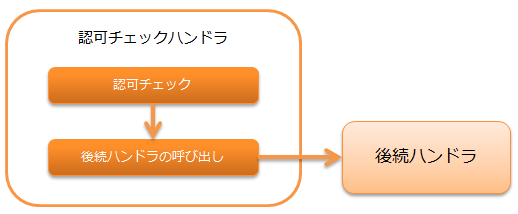
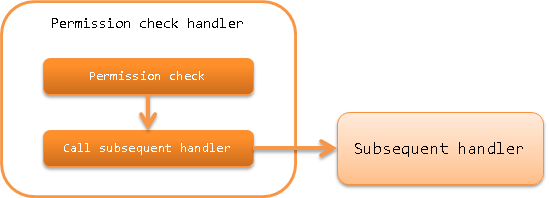
認可チェックハンドラページを英語化

Changed region(s): [[0.0, 0.0, 1.0, 1.0], [0.0927, 0.0909, 0.4633, 0.2121], [0.1544, 0.3636, 0.3707, 0.4242]]

diff --git a/en/application_framework/application_framework/handlers/common/permission_check_handler.rst b/en/application_framework/application_framework/handlers/common/permission_check_handler.rst
@@ -1,31 +1,30 @@
 .. _`permission_check_handler`:
 
-認可チェックハンドラ
+Permission Check Handler
 =======================================
 
-.. contents:: 目次
+.. contents:: Table of contents
   :depth: 3
   :local:
 
-本ハンドラでは、 :ref:`permission_check_handler-request_checking` を行う。
+This handler performs :ref:`permission_check_handler-request_checking`.
 
-認可チェックは、ライブラリの :ref:`permission_check` を使用して行う。
-そのため、本ハンドラを使用するには、
-:java:extdoc:`PermissionFactory <nablarch.common.permission.PermissionFactory>` を実装したクラスを本ハンドラに設定する必要がある。
+The permission check is performed using :ref:`permission_check` from the library.
+Therefore, to use this handler, it is necessary to configure a class that implements :java:extdoc:`PermissionFactory <nablarch.common.permission.PermissionFactory>` in this handler.
 
-本ハンドラでは、以下の処理を行う。
+This handler performs the following process.
 
-* 認可チェック
+* Permission check
 
-処理の流れは以下のとおり。
+The process flow is as follows.
 
 .. image:: ../images/PermissionCheckHandler/flow.png
 
-ハンドラクラス名
+Handler class name
 --------------------------------------------------
 * :java:extdoc:`nablarch.common.permission.PermissionCheckHandler`
 
-モジュール一覧
+Module list
 --------------------------------------------------
 .. code-block:: xml
 
@@ -34,56 +33,54 @@
     <artifactId>nablarch-common-auth</artifactId>
   </dependency>
 
-制約
+Constraints
 ------------------------------
-:ref:`thread_context_handler` より後ろに配置すること
-  本ハンドラではスレッドコンテキスト上に設定されたリクエストIDとユーザIDをもとに認可チェックを行うため、
-  :ref:`thread_context_handler` より後ろに本ハンドラを配置する必要がある。
+Place after :ref:`thread_context_handler`
+  Since this handler performs permission check based on the request ID and user ID set in the thread context,
+  this handler must be placed after :ref:`thread_context_handler`.
 
-:ref:`forwarding_handler` より後ろに配置すること
-  内部フォーワードが行われた際に、フォーワード先のリクエストIDをもとに
-  認可チェックを行いたい場合は、 :ref:`forwarding_handler` より後ろに本ハンドラを配置する必要がある。
+Place after :ref:`forwarding_handler`
+  To perform an permission check based on the request ID of the forward destination when an internal forward is performed,
+  this handler must be placed after :ref:`forwarding_handler`.
 
-:ref:`http_error_handler` より後ろに配置すること
-  認可チェックエラーの場合に表示するエラーページを指定するため、
-  :ref:`http_error_handler` より後ろに本ハンドラを配置する必要がある。
+Place after :ref:`http_error_handler`
+  To specify the error page to be displayed when a permission check error occurs,
+  this handler must be placed after :ref:`http_error_handler`.
 
 .. _permission_check_handler-request_checking:
 
-リクエストに対する認可チェック
+Permission check for request
 --------------------------------------------------------------
-ログイン中のユーザが、現在のリクエスト(リクエストID)に対して権限を持っているかをチェックする。
-チェックの詳細は、 :ref:`permission_check` を参照。
+Check whether the logged-in user has permission for the current request (request ID).
+For details of check, see :ref:`permission_check`.
 
-権限がある場合
- :ref:`業務ロジック <permission_check-server_side_check>` や
- :ref:`画面表示の制御 <permission_check-view_control>` で参照できるように、
- 認可チェックに使用した :java:extdoc:`Permission <nablarch.common.permission.Permission>` をスレッドローカルに設定する。
- そして、後続ハンドラを呼び出す。
+If permission is available
+ :java:extdoc:`Permission <nablarch.common.permission.Permission>` used for permission check is configured in the thread local
+ so that it can be referenced by :ref:`business logic <permission_check-server_side_check>` and :ref:`screen display control <permission_check-view_control>`.
+ Then the subsequent handler is called.
 
-権限がない場合
- :java:extdoc:`Forbidden(403) <nablarch.fw.results.Forbidden>` を送出する。
+If permission is not available
+ :java:extdoc:`Forbidden(403) <nablarch.fw.results.Forbidden>` is thrown.
 
-チェック対象のリクエストIDをフォーワード先のリクエストIDに変更したい場合は、
-:java:extdoc:`PermissionCheckHandler.setUsesInternalRequestId <nablarch.common.permission.PermissionCheckHandler.setUsesInternalRequestId(boolean)>`
-でtrueを指定する。デフォルトはfalseである。
+To change the request ID of the check target to the forward request ID, specify "true" in
+:java:extdoc:`PermissionCheckHandler.setUsesInternalRequestId <nablarch.common.permission.PermissionCheckHandler.setUsesInternalRequestId(boolean)>`.
+The default is "false".
 
-権限がない場合に表示するエラーページを指定する
+Specify the error page to be displayed when permission is not available
+----------------------------------------------------------------------------------------
+The error page displayed when permission is not available is specified in the HTTP error control handler.
+For more information, see :ref:`HttpErrorHandler_DefaultPage`.
+
+Exclude specific requests from permission check
 --------------------------------------------------------------
-権限がない場合に表示するエラーページは、HTTPエラー制御ハンドラで指定する。
-指定方法は、 :ref:`HttpErrorHandler_DefaultPage` を参照。
-
-特定のリクエストを認可チェックから除外する
---------------------------------------------------------------
-ログイン前のリクエストなど、認可チェックを除外したいリクエストがある場合は、
-:java:extdoc:`PermissionCheckHandler.setIgnoreRequestIds <nablarch.common.permission.PermissionCheckHandler.setIgnoreRequestIds(java.lang.String...)>`
-で指定する。
+If there are requests to be excluded from permission check, such as requests before login, they are specified in
+:java:extdoc:`PermissionCheckHandler.setIgnoreRequestIds <nablarch.common.permission.PermissionCheckHandler.setIgnoreRequestIds(java.lang.String...)>`.
 
 .. code-block:: xml
 
   <component name="permissionCheckHandler"
              class="nablarch.common.permission.PermissionCheckHandler">
     <property name="permissionFactory" ref="permissionFactory"/>
-    <!-- 認可チェックを除外するリクエストIDをカンマ区切りで指定する -->
+    <!-- Specify request IDs to be excluded from permission check separated by commas -->
     <property name="ignoreRequestIds" value="/action/login,/action/logout" />
   </component>

diff --git a/en/application_framework/application_framework/handlers/common/index.rst b/en/application_framework/application_framework/handlers/common/index.rst
@@ -1,4 +1,4 @@
-共通ハンドラ
+Common Handler
 ==================================================
 
  .. toctree::
